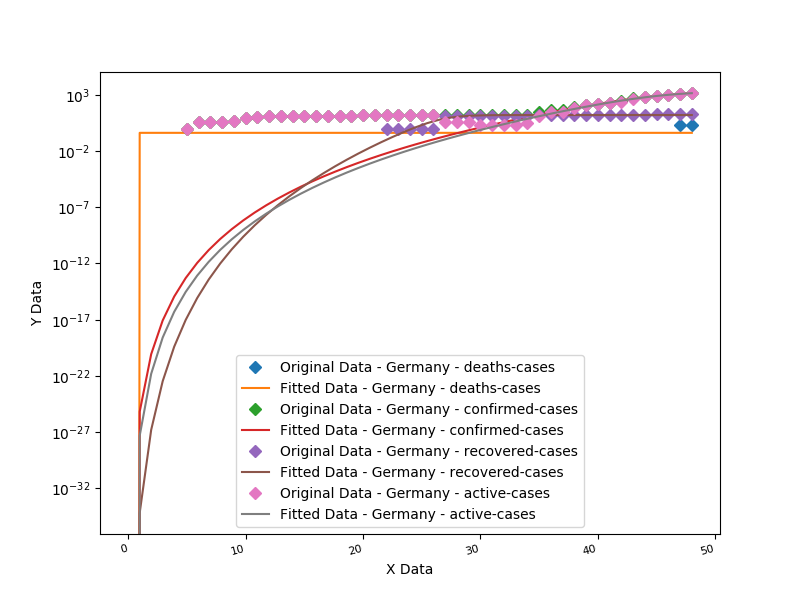
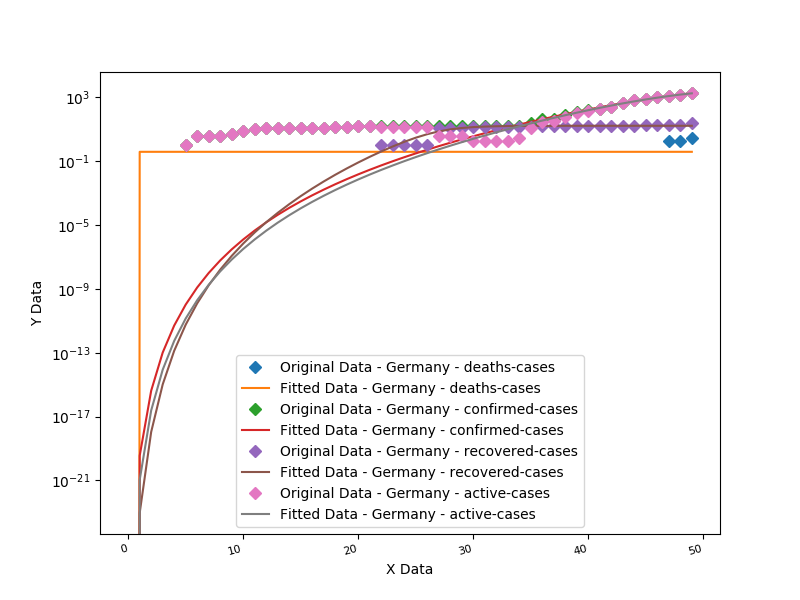
trying to compute predictions

diff --git a/csse_covid_19_data/csse_covid_19_time_series/dati_mondiali.py b/csse_covid_19_data/csse_covid_19_time_series/dati_mondiali.py
@@ -59,6 +59,7 @@ country_name_check()
 print(confirmed_df.columns)
 
 
+
 confirmed_df_reshaped = confirmed_df.melt(id_vars=['Province/State', 'Country/Region', 'Lat', 'Long'],var_name="Date", value_name='cases')
 # confirmed_df_reshaped.set_index('Date', inplace=True)
 deaths_df_reshaped = deaths_df.melt(id_vars=['Province/State', 'Country/Region', 'Lat', 'Long'],var_name="Date", value_name='cases')
@@ -71,26 +72,57 @@ active_cases = confirmed_df_reshaped['cases'] - recovered_df_reshaped['cases']
 active_df_reshaped['cases'] = active_cases
 
 
+countrylist_df = list(set(confirmed_df_reshaped['Country/Region']))
 
-def exp_func(x, a, b ):
-    return a*np.exp(b*x)
 
-def func(x, a, b, c): # Hill sigmoidal equation from zunzun.com
+
+countrylist = ['UK','US','Germany','Italy','Mainland China','Singapore','Australia','France','Switzerland','Iran','Korea, South']
+
+# for country in countrylist:
+#     if 'Korea' in country.split():
+#         print(country)
+
+def exp_func(x,  b ):
+    return np.exp(b*x)
+
+def Hill_sigmoidal_func(x, a, b, c): # Hill sigmoidal equation from zunzun.com
     return  a * np.power(x, b) / (np.power(c, b) + np.power(x, b))
 
+def func1(x, a, b,c,d):
+        return d + ((a-d)/(1+(x/c)**b))
+
+def func2(x, a,b,c):
+    return a/(1+np.exp(-b*(x-c)))
+
+
+def sigmoidal_func(x,a,b,c):
+    return a / (1 + np.exp(-c * (x - b)))
+
+def extract_database(country,dataframe):
+    country_database = dataframe[dataframe['Country/Region'] == country]
+    country_database = country_database.reset_index(drop=True)
+    df_bydate_grouper = country_database.groupby('Date', sort=False)["cases"].sum().reset_index(name='Total Cases')
+
+    totale_casi = np.array(df_bydate_grouper['Total Cases'])
+
+    # data = df_bydate_grouper.index.values
+
+    x = np.arange(0, len(totale_casi))
+    return df_bydate_grouper,x,totale_casi
 
 def print_Data_by_country(country,dataframe,label,show_fit=False,logscale=False):
     try:
         # dataframe_bycountry = dataframe.groupby(dataframe['Country/Region'])
-        country_database = dataframe[dataframe['Country/Region']==country]
+        country_database = dataframe[dataframe['Country/Region'] == country]
         country_database = country_database.reset_index(drop=True)
         df_bydate_grouper = country_database.groupby('Date', sort=False)["cases"].sum().reset_index(name='Total Cases')
 
         totale_casi = np.array(df_bydate_grouper['Total Cases'])
 
-        data = df_bydate_grouper.index.values
+        # data = df_bydate_grouper.index.values
 
         x = np.arange(0, len(totale_casi))
+
         if logscale:
             plt.yscale('log')
         popt1, pcov1 = curve_fit(lambda t, a, b: a * np.exp(b * t), x, totale_casi)
@@ -105,77 +137,70 @@ def print_Data_by_country(country,dataframe,label,show_fit=False,logscale=False)
         logger.info('country {} not in database'.format(country))
         return 0
 
-def ModelAndScatterPlot(country,dataframe,label,graphWidth, graphHeight,logscale):
+def fit_data(x,y,func):
     # these are the same as the scipy defaults
     # initialParameters = np.array([1.0, 1.0, 1.0])
 
-    country_database = dataframe[dataframe['Country/Region'] == country]
-    country_database = country_database.reset_index(drop=True)
-    df_bydate_grouper = country_database.groupby('Date', sort=False)["cases"].sum().reset_index(name='Total Cases')
 
-    totale_casi = np.array(df_bydate_grouper['Total Cases'])
-
-    data = df_bydate_grouper.index.values
-
-    x = np.arange(0, len(totale_casi))
 
     # curve fit the test data
     # fittedParameters, pcov = curve_fit(func, x, totale_casi, initialParameters, maxfev=5000)
     try:
-        fittedParameters, pcov = curve_fit(func, x, totale_casi, maxfev=5000)
-        modelPredictions = func(x, *fittedParameters)
+        fittedParameters, pcov = curve_fit(func, x, y, maxfev=5000)
+        # fittedParameters, pcov = curve_fit(func2, x[:max_size], totale_casi[:max_size], maxfev=5000)
+        # fittedParameters[2]=90
+        modelPredictions = func(y, *fittedParameters)
 
-        absError = modelPredictions - totale_casi
+        absError = modelPredictions - y
 
         SE = np.square(absError)  # squared errors
         MSE = np.mean(SE)  # mean squared errors
         RMSE = np.sqrt(MSE)  # Root Mean Squared Error, RMSE
-        Rsquared = 1.0 - (np.var(absError) / np.var(totale_casi))
+        Rsquared = 1.0 - (np.var(absError) / np.var(y))
 
         print('Parameters:', fittedParameters)
         print('RMSE:', RMSE)
         print('R-squared:', Rsquared)
 
-        # first the raw data as a scatter plot
-        if logscale:
-            plt.yscale('log')
-        plt.plot(data, totale_casi, 'D', label="Original Data - " + country + ' - ' + label)
+
 
         # create data for the fitted equation plot
         xModel = np.linspace(min(x), max(x))
         yModel = func(xModel, *fittedParameters)
 
-        # now the model as a line plot
-        plt.plot(xModel, yModel, label="Fitted Data - " + country + ' - ' + label)
 
-        plt.xlabel('X Data')  # X axis data label
-        plt.ylabel('Y Data')  # Y axis data label
+        # plt.legend(loc='best')
+        # plt.xticks(rotation=15, ha="right")
 
-        plt.legend(loc='best')
-        plt.xticks(rotation=15, ha="right")
-
-    except RuntimeError:
+        return xModel,yModel,fittedParameters
+    except:
+        print('failed to fit data')
+        return [],[],[]
 
 
 
-        # first the raw data as a scatter plot
+def plot_data(Xdata,Ydata,country,label,color,logscale=False):
+
+
+    # first the raw data as a scatter plot
+    if logscale:
+        plt.yscale('log')
+        # plt.ylim(0, 1e4)
+    # plt.plot(Xdata, Ydata, 'D', label="Original Data - " + country + ' - ' + label,color=color)
+    plt.scatter(Xdata, Ydata, marker='D', label="Original Data - " + country + ' - ' + label,c=color)
+
+
+def plot_model(xModel,yModel,country,label,color,marker,logscale=False):
+        # plt.xlabel('X Data') # X axis data label
+        # plt.ylabel('Y Data') # Y axis data label
         if logscale:
             plt.yscale('log')
-        plt.plot(data, totale_casi,  'D',label="Original Data - "+country+' - '+label)
 
+        # plt.plot(xModel, yModel, label="Fitted Data - " + country + ' - ' + label, color=color,marker=marker)
+        plt.scatter(xModel, yModel, label="Fitted Data - " + country + ' - ' + label, c=color,marker=marker)
 
-
-
-
-        plt.xlabel('X Data') # X axis data label
-        plt.ylabel('Y Data') # Y axis data label
-
-        plt.legend(loc='best')
-        plt.xticks(rotation=15, ha="right")
-
-
-
-
+        # plt.legend(loc='best')
+        # plt.xticks(rotation=15, ha="right")
 
 
 
@@ -187,46 +212,67 @@ def ModelAndScatterPlot(country,dataframe,label,graphWidth, graphHeight,logscale
 
 # graphics output section
 
-countrylist = list(set(confirmed_df_reshaped['Country/Region']))
-countrylist = ['UK','US','Germany','Italy','Mainland China','Singapore','Australia','France']
+
+# countrylist = ['Italy']
 # for country in countrylist:
 #     logger.info('plotting {} data'.format(country))
 #     plt.figure()
 #     df_bydate_grouper_country = print_Data_by_country(country, deaths_df_reshaped, 'death-cases',
-#                                                       show_fit=False,logscale=False)
+#                                                       show_fit=True,logscale=False)
 #     df_bydate_grouper_country = print_Data_by_country(country, confirmed_df_reshaped, 'confirmed-cases',
-#                                                       show_fit=False,logscale=False)
+#                                                       show_fit=True,logscale=False)
 #     df_bydate_grouper_country = print_Data_by_country(country, recovered_df_reshaped, 'recovered-cases',
-#                                                       show_fit=False,logscale=False)
+#                                                       show_fit=True,logscale=False)
 #     logscale = False
 #     if logscale:
 #         plt.savefig('./Figures/' + country + '_fitted_log.png', dpi=100)
 #     else:
 #         plt.savefig('./Figures/' + country + '_fitted.png', dpi=100)
+#
+# plt.show()
 
+def recompute_fit(dataframe,label,country,newfit):
+    x = np.arange(0, len(np.array(dataframe['Total Cases'])))
+    xModel = np.linspace(min(x), max(x))
+    yModel = func2(xModel, *newfit)
+
+    # now the model as a line plot
+    plt.plot(xModel, yModel, label="Fitted Data - " + country + ' - ' + label, color='m')
 
 graphWidth = 800
 graphHeight = 600
-countrylist = ['UK','US','Germany','Italy','Mainland China','Singapore','Australia','France']
-# countrylist = ['Italy']
+
+countrylist = ['Italy']
 for country in countrylist:
-    logger.info('plotting {} data'.format(country))
-    # try:
-    print(country)
-    plt.figure(figsize=(graphWidth/100.0, graphHeight/100.0), dpi=100)
-    ModelAndScatterPlot(country,deaths_df_reshaped,'deaths-cases',graphWidth, graphHeight,logscale=True)
-    ModelAndScatterPlot(country,confirmed_df_reshaped,'confirmed-cases',graphWidth, graphHeight,logscale=True)
-    ModelAndScatterPlot(country,recovered_df_reshaped,'recovered-cases',graphWidth, graphHeight,logscale=True)
-    ModelAndScatterPlot(country,active_df_reshaped,'active-cases',graphWidth, graphHeight,logscale=True)
-    logscale=True
-    # logscale=False
-    if logscale:
-        plt.savefig('./Figures/'+country + '_fitted_log.png', dpi=100)
-    else:
-        plt.savefig('./Figures/' + country + '_fitted.png', dpi=100)
+    if country in countrylist_df:
+        logger.info('plotting {} data'.format(country))
+        # try:
+        print(country)
+        logscale= True
+        dataframe,x,y = extract_database(country,active_df_reshaped)
+        date = dataframe.index.values
+        start_prediction_date=date
+        stop_prediction_date=80
+        date_prediction = np.arange(0,80)
+        print(date_prediction)
+        xModel,yModel,fittedParameters_10 = fit_data(x[-20:],y[-20:],exp_func)
+        plt.figure(num=country)
+        plot_data(date,y,country,'active','r',logscale=logscale)
+        plot_model(xModel,yModel,country,'10days-fit - active','g',marker='x',logscale=logscale)
 
 
-    # except:
-    #     pass
 
-# plt.close('all')  # clean up after using pyplot
+        fittedParameters, pcov = curve_fit(lambda t, a, b: a/(1+np.exp(-fittedParameters_10[0]*(t-b))), x, y, maxfev=5000)
+        print('Parameters:', fittedParameters)
+        modelPredictions = sigmoidal_func(y[-10:], fittedParameters[0],fittedParameters[1],fittedParameters_10[0])
+        xModel = np.linspace(start_prediction_date, stop_prediction_date)
+        yModel = sigmoidal_func(xModel, fittedParameters[0],fittedParameters[1],fittedParameters_10[0])
+        plot_model(xModel, yModel, country, 'predictions - active', 'm',marker='.', logscale=logscale)
+        plt.xlabel('giorni da inizio contagio') # X axis data label
+        plt.ylabel('Casi Attivi') # Y axis data label
+        plt.legend(loc='best',fontsize='10')
+        # plt.xticks(np.arange(22, 80, step=1))
+
+
+#
+plt.show()
